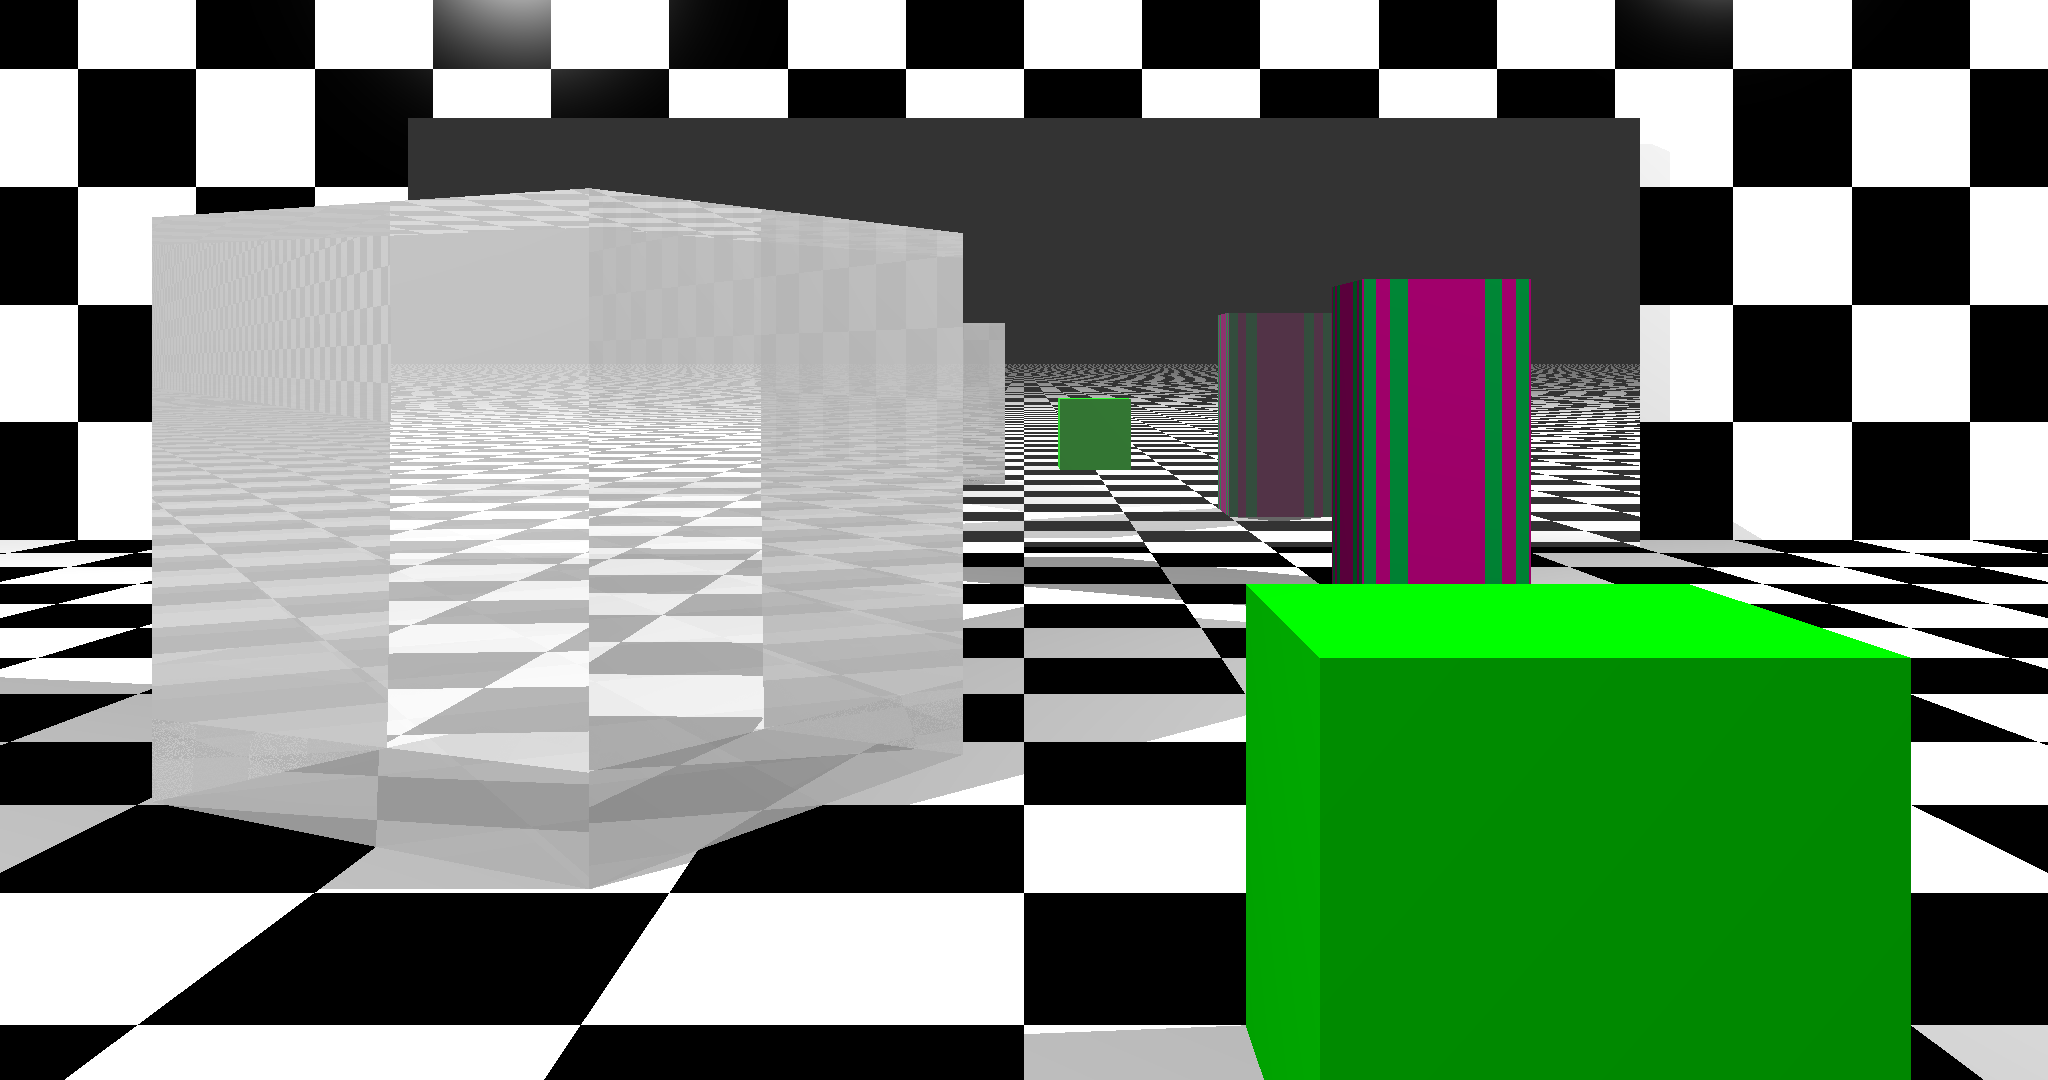
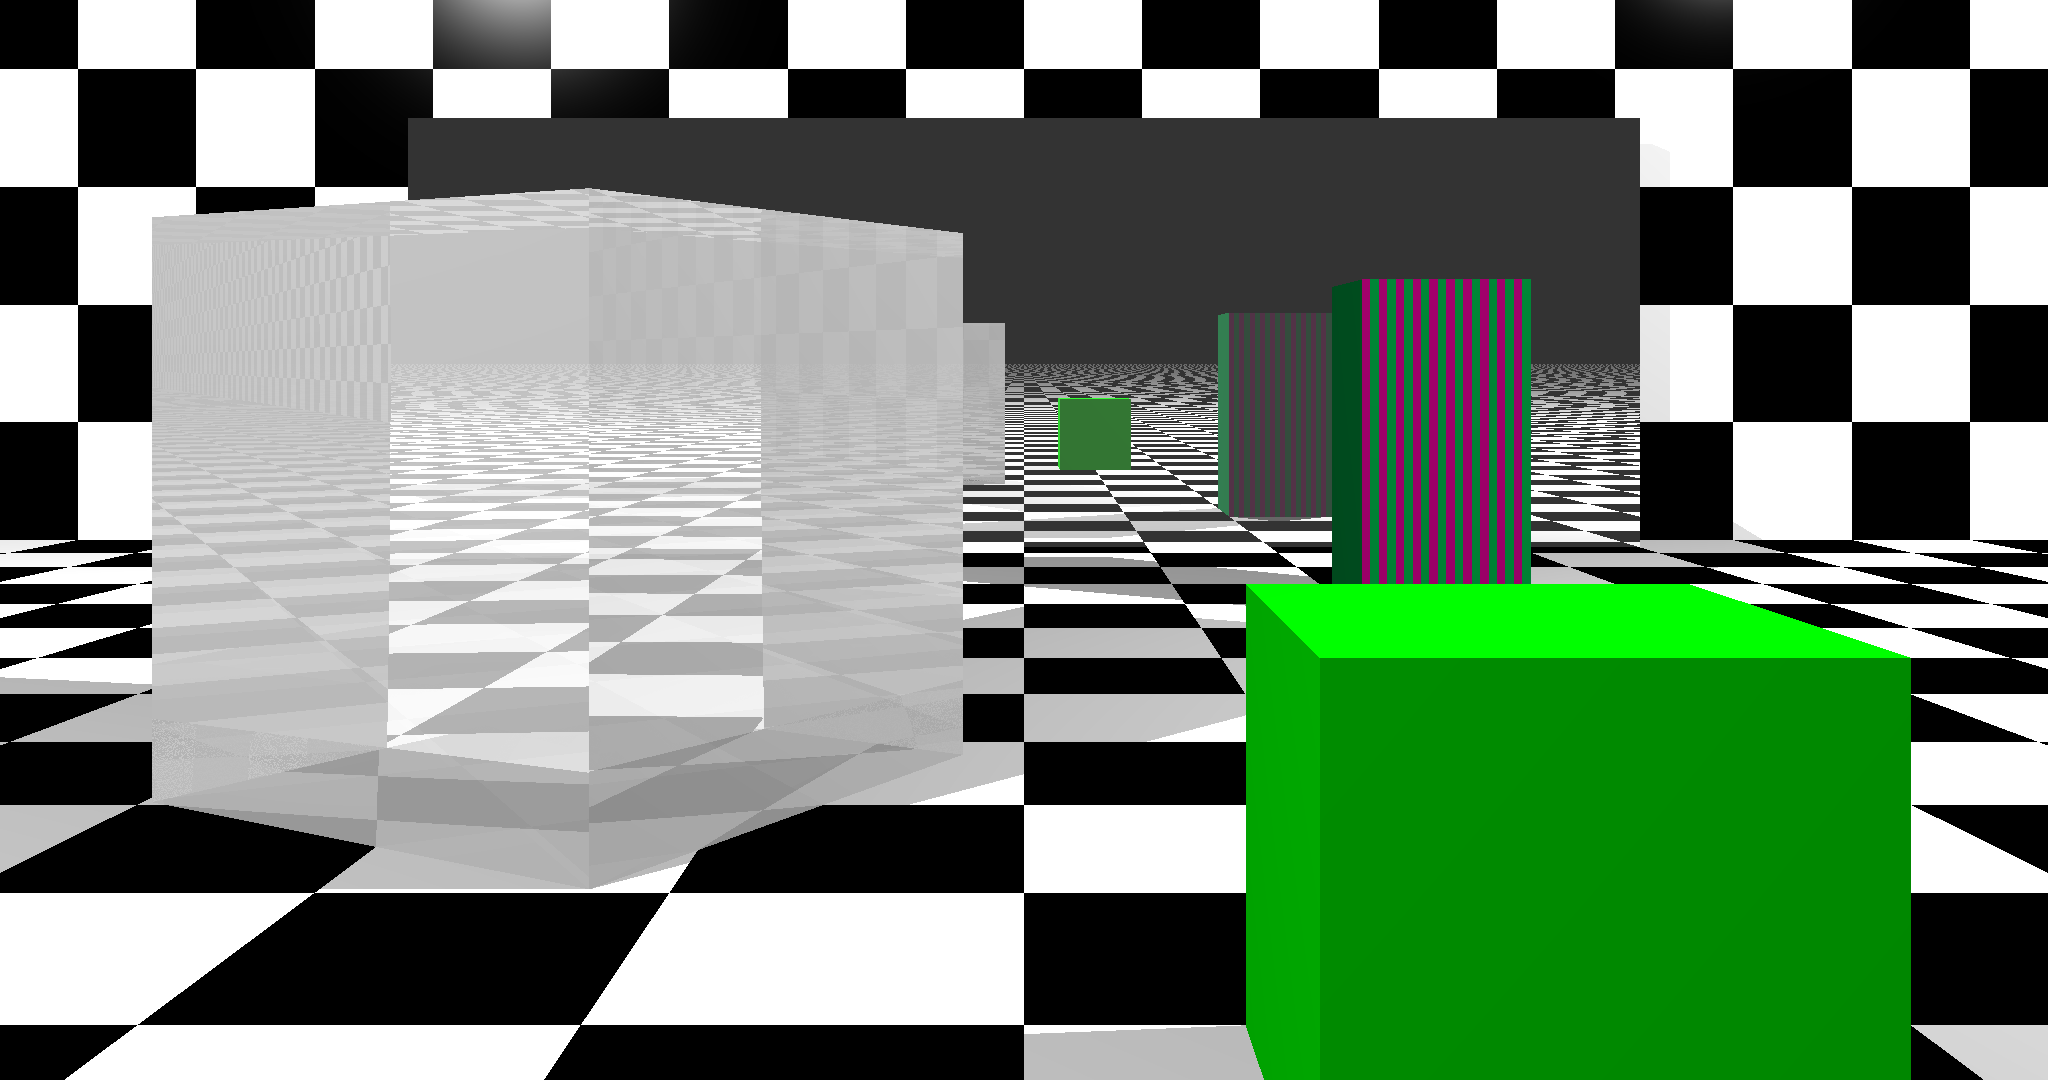
finish cap 11

Changed region(s): [[0.5938, 0.2444, 0.75, 0.55]]

diff --git a/src/bin/cap12.rs b/src/bin/cap12.rs
@@ -9,7 +9,7 @@ use renderer::lights::Light;
 use renderer::materials::Material;
 use renderer::matrix::Matrix;
 use renderer::object::{Intersectable, Object};
-use renderer::patterns::{Checkers, Incuse, Patterns, Ring};
+use renderer::patterns::{Checkers, Incuse, Patterns, Stripe};
 use renderer::plane::Plane;
 use renderer::transformations::Transform;
 use renderer::tuple::Tuple;
@@ -42,7 +42,7 @@ fn main() {
     let mut c = Cube::default();
     c.material.specular = 0.3;
     c.material.diffuse = 0.7;
-    let mut ring = Ring::new(Color::new(0.6, 0., 0.4), Color::new(0., 0.5, 0.2));
+    let mut ring = Stripe::new(Color::new(0.6, 0., 0.4), Color::new(0., 0.5, 0.2));
     ring.set_pattern_transform(Matrix::scaling(Tuple::vector(0.1, 0.1, 0.1)));
     c.material.pattern = Option::from(Patterns::from(ring));
     c.transform = Matrix::translation(Tuple::vector(2.5, 0.5, 6.)) * Matrix::scaling(Tuple::vector(0.5, 1.5, 0.5));
